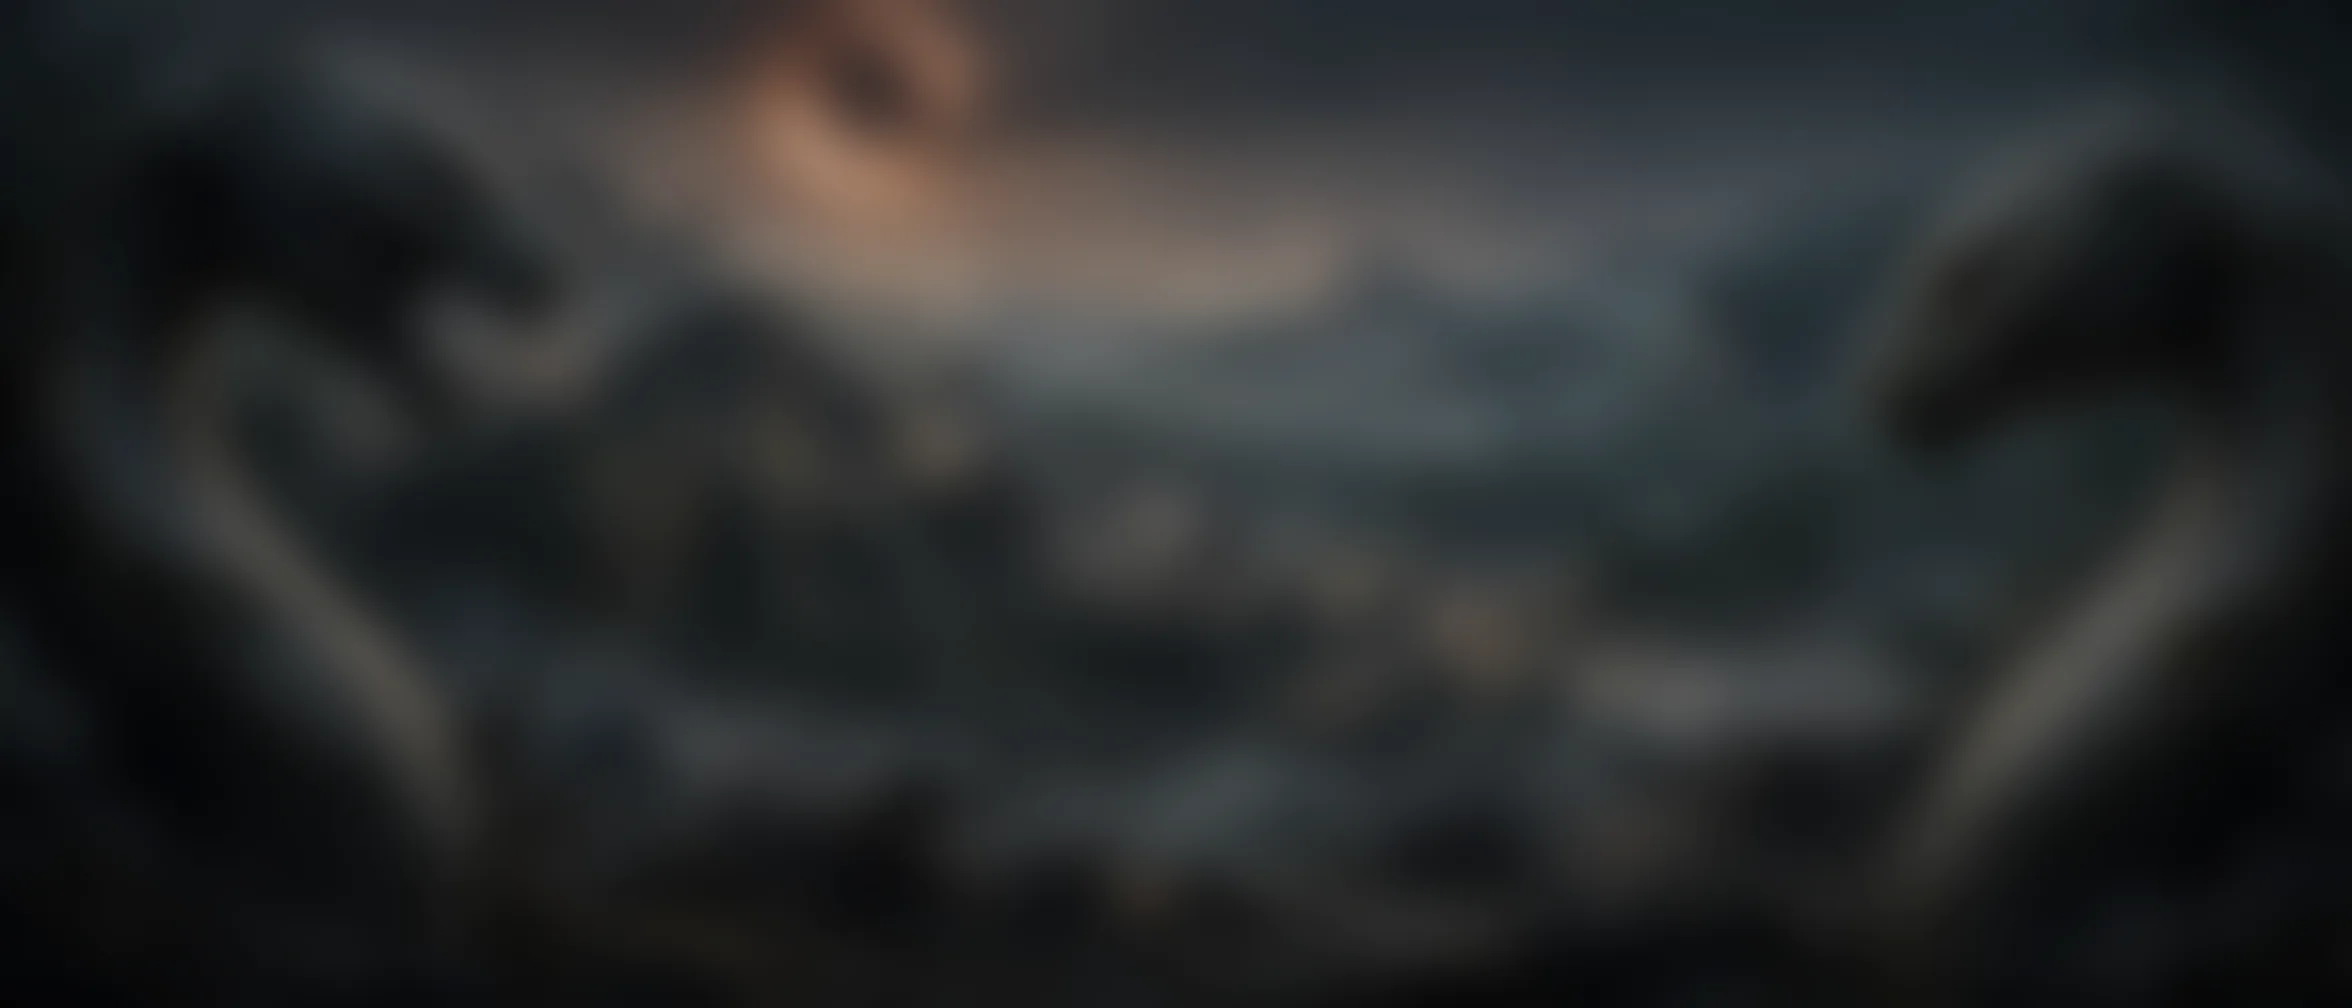
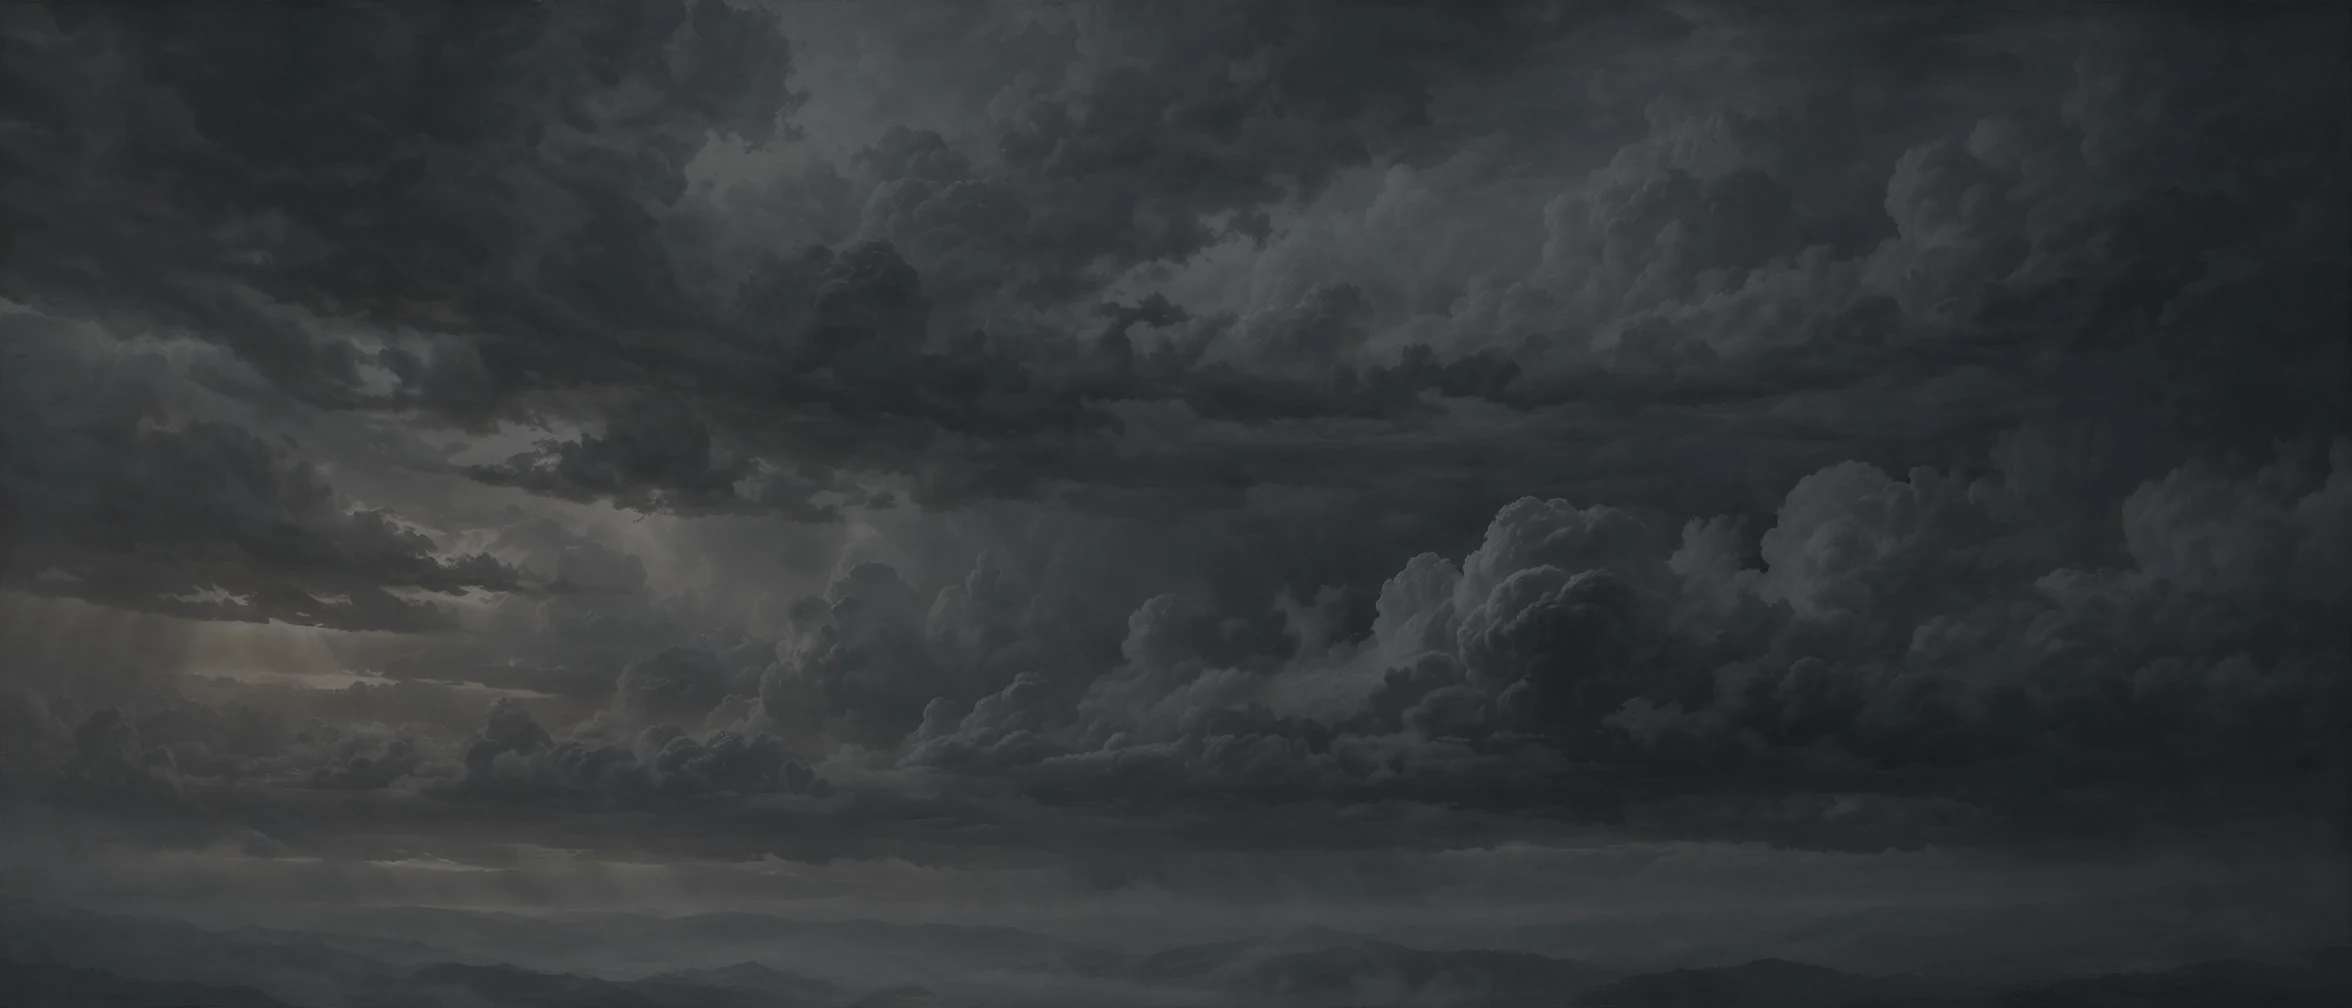
fix(hero): 直式螢幕看不到巨蛇、捲動時有殘影
兩個上線後回報的視覺 bug，契約測不到，是靠截圖看出來的。

Bug A：直式螢幕完全看不到巨蛇
場景圖是 2352x1008 的超寬比例，三層都用 background-size: cover。cover 在
窄視窗以高度為基準放大、左右大量裁切，而巨蛇正好落在素材最外緣：iPad 直式
只看得到原圖 33.9%~66.1%，蛇整條被裁光；連桌機都只剩半透明的蛇身。

改成把 frame 層拆成 .scene-frame-left / .scene-frame-right 兩個獨立元素，
各自貼齊視窗左右緣（原始 Mostar 規格就是這樣，當初簡化成單層才踩到）。
關鍵是元素用 aspect-ratio: 659/1008 綁成素材原生比例——元素高度若綁在
100vh 上，寬高比會隨視窗高度飄動，直式螢幕就會把素材放大到只剩局部。
下緣用 mask-image 漸層淡出，窄視窗下蛇本來就佔不滿整個高度，沒有淡出
就會切出硬邊。

Bug B：捲動時有殘影
sky.webp 原本是整張原圖的模糊版、含城市，而 town 是清晰版且捲動時會上移
放大，兩層的城市對不齊，就疊出「模糊的城市 + 清晰的城市」雙重輪廓。原本
想靠 sky 強模糊掩蓋，幅度大時掩蓋不住。改用一張純天空圖當 sky 層，並在
產生腳本裡壓暗降飽和（0.56 / 0.35）接回暗黑基調。

順帶修掉兩個既有問題：
- --frame-x 這個變數 JS 一直在設，但 CSS 從來沒讀過它，是條死線，現在接上
  讓左右邊框捲動時往反方向移開。
- town 層做視差時整個上移 18vh，但元素只有一個視窗高、沒有向下的餘裕，
  下緣會離開視窗、在畫面底部切出橫向硬邊（放大截圖才看得出來，自 hero
  初版就存在）。改成元素高度隨進度增加到 110vh，並把 transform-origin
  設成 center top 讓放大增量全部往下。

素材產生腳本留在 repo（scripts/build_scene.py），上一輪當一次性腳本用完就
丟，這次留著讓羽化參數之後可以調。來源圖不入版控（大檔、且這是 public
repo），放 ~/下載 或用 POE2_SCENE_SRC 指定。

舊的 frame.webp 已無任何引用，隨這次拆分刪除。

驗證：node tests/hero_contract.mjs 18/18、python3 tests/scene_assets.py 12/12，
另在桌機／iPad 直式／手機直式三組尺寸各截四個捲動位置人眼確認。

Claude-Session: https://claude.ai/code/session_01Er7bfpa6tVLNCT5nbGTNL1

diff --git a/static/style.css b/static/style.css
@@ -35,6 +35,7 @@ a { color: inherit; text-decoration: none; }
   --title-opacity: 1;
   --town-y: 0vh;
   --town-scale: 1;
+  --town-height: 100vh;
   --frame-x: 0vw;
   --cards-y: 24vh;
   --cards-opacity: 0;
@@ -71,17 +72,37 @@ a { color: inherit; text-decoration: none; }
 }
 .scene-town {
   z-index: 1;
+  height: var(--town-height);
+  bottom: auto;
   background-image: url("scene/town.webp"), linear-gradient(155deg, transparent 20%, rgba(72, 79, 95, .36) 56%, rgba(8, 10, 15, .9) 100%);
   background-size: cover;
   background-position: center bottom;
+  transform-origin: center top;
   transform: translate3d(0, var(--town-y), 0) scale(var(--town-scale));
 }
-.scene-frame {
+.scene-frame-left, .scene-frame-right {
   z-index: 2;
-  background-image: url("scene/frame.webp"), linear-gradient(90deg, rgba(5, 6, 10, .9), transparent 25%, transparent 75%, rgba(5, 6, 10, .9));
-  background-size: cover;
-  background-position: center;
+  width: 42vw;
+  height: auto;
+  aspect-ratio: 659 / 1008;
+  bottom: auto;
+  background-repeat: no-repeat;
+  background-size: 100% auto;
+  -webkit-mask-image: linear-gradient(to bottom, #000 0%, #000 72%, transparent 100%);
+  mask-image: linear-gradient(to bottom, #000 0%, #000 72%, transparent 100%);
   transform: scale(calc(1.04 + var(--hero-progress) * 0.30));
+}
+.scene-frame-left {
+  right: auto;
+  background-image: url("scene/frame-left.webp");
+  background-position: left center;
+  transform: translate3d(calc(var(--frame-x) * -1), 0, 0) scale(calc(1.04 + var(--hero-progress) * 0.30));
+}
+.scene-frame-right {
+  left: auto;
+  background-image: url("scene/frame-right.webp");
+  background-position: right center;
+  transform: translate3d(var(--frame-x), 0, 0) scale(calc(1.04 + var(--hero-progress) * 0.30));
 }
 .hero-shade {
   z-index: 3;
@@ -132,6 +153,10 @@ a { color: inherit; text-decoration: none; }
 .cta-arrow { align-self: flex-end; color: var(--silver-hi); font-size: 20px; line-height: 1; }
 @media (max-width: 760px) {
   .hero-cinema { height: 180vh; }
+  .scene-frame-left, .scene-frame-right {
+    width: 44vw;
+    background-position-y: top;
+  }
   .hero-content { justify-content: flex-start; padding-top: 18vh; }
   .hero-title { margin-bottom: 12vh; font-size: clamp(29px, 9vw, 52px); }
   .cta-grid { grid-template-columns: repeat(2, 1fr); overflow-y: auto; max-height: 42vh; }
@@ -140,7 +165,8 @@ a { color: inherit; text-decoration: none; }
 }
 @media (prefers-reduced-motion: reduce) {
   html { scroll-behavior: auto; }
-  .scene-town, .scene-frame { transform: none; }
+  .scene-town { height: 100vh; }
+  .scene-town, .scene-frame-left, .scene-frame-right { transform: none; }
   .hero-title { transition: none; }
   .cta-card { transition: none; }
   .cta-grid { opacity: 1; transform: none; }

diff --git a/templates/index.html b/templates/index.html
@@ -14,7 +14,8 @@
   <div class="hero-stage">
     <div class="scene-img scene-sky" aria-hidden="true"></div>
     <div class="scene-img scene-town" aria-hidden="true"></div>
-    <div class="scene-img scene-frame" aria-hidden="true"></div>
+    <div class="scene-img scene-frame-left" aria-hidden="true"></div>
+    <div class="scene-img scene-frame-right" aria-hidden="true"></div>
     <div class="hero-shade" aria-hidden="true"></div>
     <div class="hero-content">
       <p class="hero-eyebrow">THE EXILED PATH</p>
@@ -167,6 +168,7 @@
     root.style.setProperty("--title-opacity", Math.max(0, 1 - progress * 2.4).toFixed(4));
     root.style.setProperty("--town-y", `${-progress * 18}vh`);
     root.style.setProperty("--town-scale", (1 + progress * .08).toFixed(4));
+    root.style.setProperty("--town-height", `${100 + progress * 10}vh`);
     root.style.setProperty("--frame-x", `${progress * 18}vw`);
     root.style.setProperty("--cards-y", `${(1 - progress) * 24}vh`);
     root.style.setProperty("--cards-opacity", Math.min(1, progress * 2.2).toFixed(4));

diff --git a/scripts/build_scene.py b/scripts/build_scene.py
@@ -1,0 +1,117 @@
+#!/usr/bin/env python3
+"""Build the four hero scene layers from the supplied source images.
+
+Run with the system interpreter (it has Pillow installed):
+    python3 scripts/build_scene.py
+
+The two source images are not in this repo (they are large and this repo is
+public). Put them in ~/下載, or point POE2_SCENE_SRC at whatever directory
+holds them:
+    POE2_SCENE_SRC=/path/to/sources python3 scripts/build_scene.py
+
+Parameters below are intentionally kept in one place:
+* SKY_BRIGHTNESS darkens the supplied sky; SKY_SATURATION below 1 removes colour.
+* TOWN_FADE_START/END define the transparent-to-opaque town edge feather.
+* FRAME_CROP is the fraction of the source retained for each edge snake.
+* FRAME_FADE_START/END define the snake's outward-to-inward alpha feather.
+"""
+
+import os
+from pathlib import Path
+
+from PIL import Image, ImageEnhance, ImageStat
+
+
+ROOT = Path(__file__).resolve().parents[1]
+SOURCE_DIR = Path(os.environ.get("POE2_SCENE_SRC") or Path.home() / "下載")
+ORIGINAL = SOURCE_DIR / "image (1).webp"
+SOURCE_SKY = SOURCE_DIR / "storm_clouds_dusk.webp"
+OUT_DIR = ROOT / "static" / "scene"
+
+SKY_BRIGHTNESS = 0.56
+SKY_SATURATION = 0.35
+TOWN_FADE_START = 0.18
+TOWN_FADE_END = 0.28
+FRAME_CROP = 0.28
+FRAME_FADE_START = 0.20
+FRAME_FADE_END = 0.255
+
+
+def edge_alpha(width, start, end, reverse=False):
+    """Create a horizontal alpha ramp, constant vertically."""
+    values = []
+    for x in range(width):
+        position = x / max(width - 1, 1)
+        if reverse:
+            position = 1 - position
+        if position <= start:
+            alpha = 255
+        elif position >= end:
+            alpha = 0
+        else:
+            alpha = round(255 * (end - position) / (end - start))
+        values.append(alpha)
+    alpha = Image.new("L", (width, 1))
+    alpha.putdata(values)
+    return alpha
+
+
+def town_layer(original):
+    width, height = original.size
+    alpha = Image.new("L", (width, height), 0)
+    row = []
+    for x in range(width):
+        position = x / max(width - 1, 1)
+        if position < TOWN_FADE_START:
+            value = 0
+        elif position < TOWN_FADE_END:
+            value = round(255 * (position - TOWN_FADE_START) / (TOWN_FADE_END - TOWN_FADE_START))
+        elif position <= 1 - TOWN_FADE_END:
+            value = 255
+        elif position <= 1 - TOWN_FADE_START:
+            value = round(255 * (position - (1 - TOWN_FADE_END)) / (TOWN_FADE_END - TOWN_FADE_START))
+        else:
+            value = 0
+        row.append(value)
+    alpha.putdata(row * height)
+    layer = original.convert("RGBA").copy()
+    layer.putalpha(alpha)
+    return layer
+
+
+def frame_layer(original, left):
+    width, height = original.size
+    crop_width = round(width * FRAME_CROP)
+    box = (0, 0, crop_width, height) if left else (width - crop_width, 0, width, height)
+    layer = original.crop(box).convert("RGBA")
+    if left:
+        alpha = edge_alpha(crop_width, FRAME_FADE_START / FRAME_CROP, FRAME_FADE_END / FRAME_CROP)
+    else:
+        alpha = edge_alpha(crop_width, FRAME_FADE_START / FRAME_CROP, FRAME_FADE_END / FRAME_CROP, reverse=True)
+    layer.putalpha(alpha.resize(layer.size))
+    return layer
+
+
+def main():
+    OUT_DIR.mkdir(parents=True, exist_ok=True)
+    original = Image.open(ORIGINAL).convert("RGB")
+    source_sky = Image.open(SOURCE_SKY).convert("RGB")
+
+    sky = ImageEnhance.Color(source_sky).enhance(SKY_SATURATION)
+    sky = ImageEnhance.Brightness(sky).enhance(SKY_BRIGHTNESS)
+    town = town_layer(original)
+    left = frame_layer(original, left=True)
+    right = frame_layer(original, left=False)
+
+    sky.save(OUT_DIR / "sky.webp", "WEBP", quality=88, method=6)
+    town.save(OUT_DIR / "town.webp", "WEBP", quality=90, method=6)
+    left.save(OUT_DIR / "frame-left.webp", "WEBP", quality=90, method=6)
+    right.save(OUT_DIR / "frame-right.webp", "WEBP", quality=90, method=6)
+
+    mean = ImageStat.Stat(sky).mean
+    print(f"sky mean RGB: {tuple(round(v, 1) for v in mean)}")
+    print(f"wrote {OUT_DIR / 'sky.webp'}, {OUT_DIR / 'town.webp'}, frame-left.webp, frame-right.webp")
+
+
+if __name__ == "__main__":
+    main()
